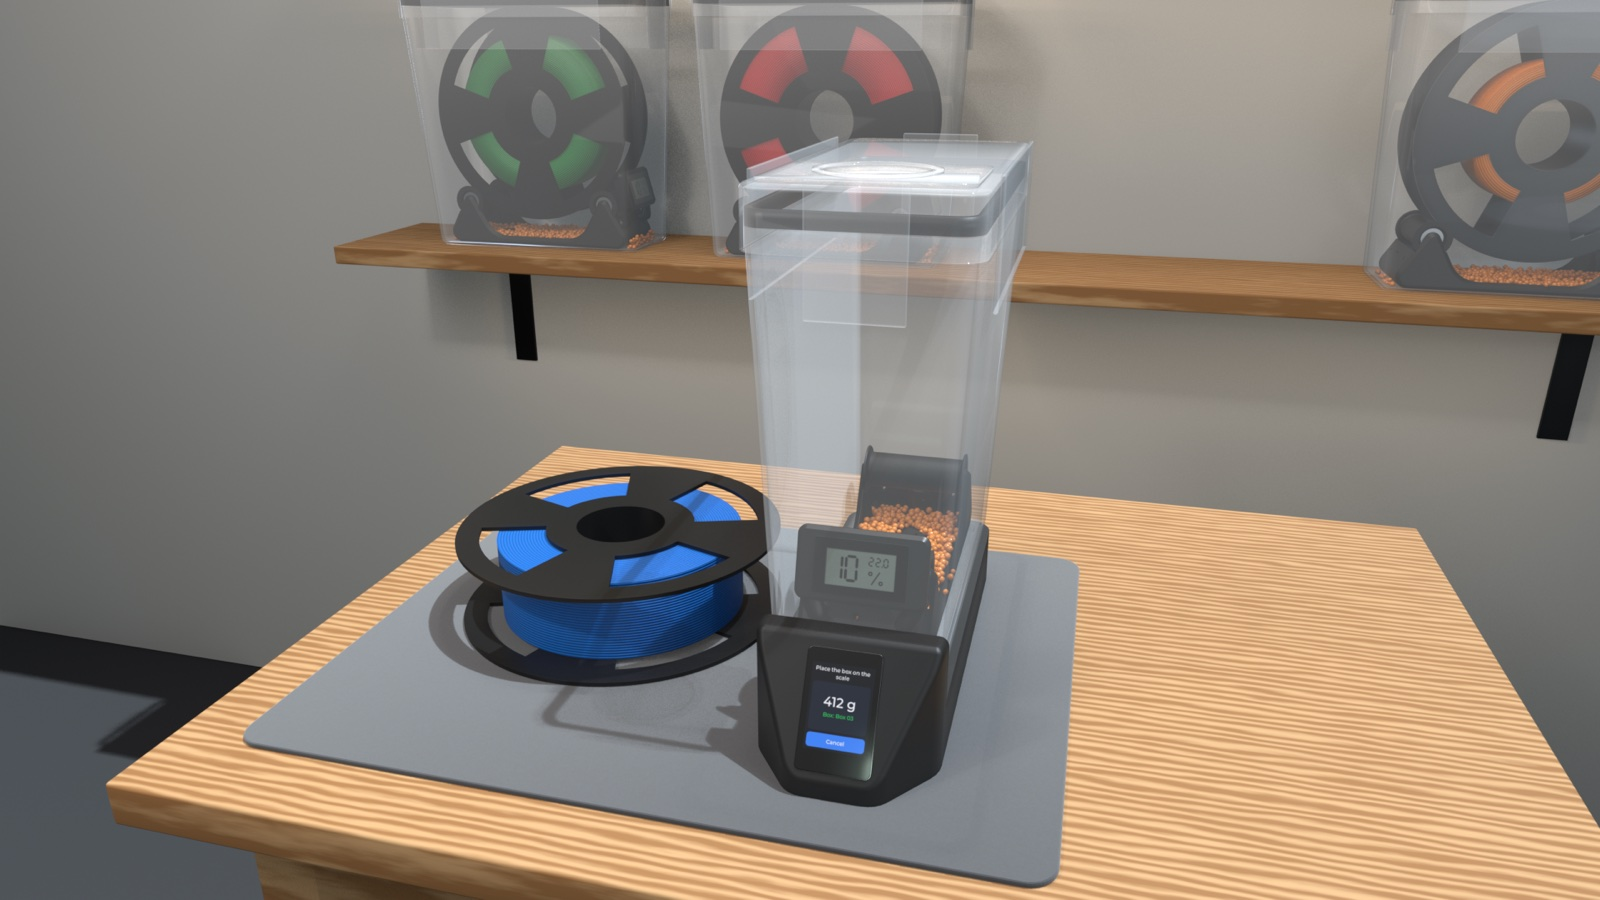
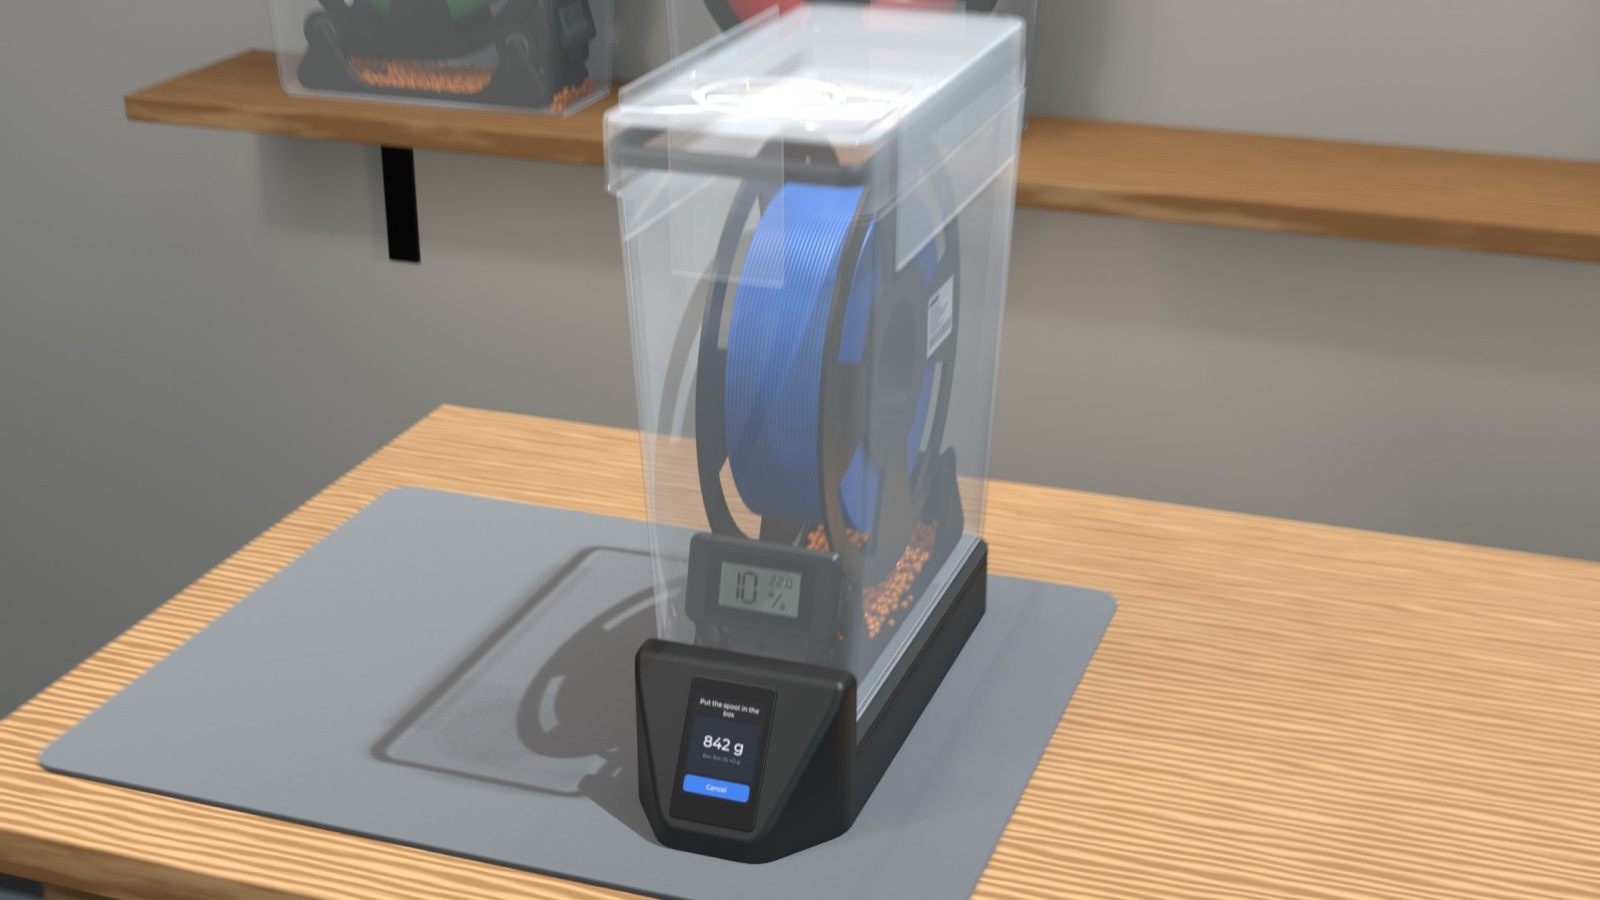
Webseite: neue EEVEE-Renders in Full HD als Platzhalter

diff --git a/docs/index.html b/docs/index.html
@@ -43,8 +43,8 @@
 
 <div class="wrap">
   <figure class="hero-img">
-    <img src="img/hero.jpg" alt="Rendering: the scale on a workbench with a storage box on the platform and a blue spool next to it. The display shows 412 g." width="1600" height="900">
-    <figcaption><span data-l="de">Rendering aus Blender. Die Box steht auf der Waage, das Display zeigt das Boxgewicht.</span><span data-l="en">Blender rendering. The box sits on the scale, the display shows the box weight.</span></figcaption>
+    <img src="img/hero.jpg" alt="Rendering: the storage box with the blue spool inside stands on the scale. The display shows 842 g." width="1600" height="900">
+    <figcaption><span data-l="de">Rendering aus Blender. Die Spule steht in der Box, das Display zeigt das Gewicht der Spule.</span><span data-l="en">Blender rendering. The spool sits in the box, the display shows the spool weight.</span></figcaption>
   </figure>
 </div>
 
@@ -135,7 +135,7 @@
   </div>
   <p style="margin-top:16px"><a href="bauen.html"><span data-l="de">Verdrahtung, Mechanik und Flashen im Browser</span><span data-l="en">Wiring, mechanics and flashing from the browser</span></a></p>
   <div class="two tall" style="margin-top:22px">
-    <img src="img/render-room.jpg" alt="Rendering: the scale in front of a shelf with filament boxes" loading="lazy">
+    <img src="img/render-room.jpg" alt="Rendering: the storage box on the scale in front of a shelf with filament boxes" loading="lazy">
     <img src="img/render-menu.jpg" alt="Rendering: close-up of the touch display" loading="lazy">
   </div>
 </section>

diff --git a/docs/bauen.html b/docs/bauen.html
@@ -58,8 +58,8 @@
 
 <h2 id="mechanik"><span data-l="de">Mechanik</span><span data-l="en">Mechanics</span></h2>
 <div class="two">
-  <img src="img/render-front.jpg" alt="" loading="lazy">
-  <img src="img/render-menu.jpg" alt="" loading="lazy">
+  <img src="img/render-front.jpg" alt="Rendering: the spool is scanned at the NFC zone" loading="lazy">
+  <img src="img/render-menu.jpg" alt="Rendering: close-up of the touch display" loading="lazy">
 </div>
 <ul>
   <li><span data-l="de"><b>Biegebalken:</b> Sockel an einem Ende, Wiegeplatte am anderen. Distanzstücke sorgen dafür, dass nur die Enden Kontakt haben. Der Pfeil auf der Zelle zeigt die Lastrichtung.</span><span data-l="en"><b>Bar load cell:</b> base at one end, weighing platform at the other. Spacers make sure only the ends touch. The arrow on the cell shows the load direction.</span></li>

diff --git a/docs/style.css b/docs/style.css
@@ -78,7 +78,7 @@ section{padding-block:44px}
 .two{display:grid;grid-template-columns:1fr 1fr;gap:14px}
 @media (max-width:700px){.two{grid-template-columns:1fr}}
 .two img{width:100%;height:auto;border-radius:var(--r);display:block}
-.two.tall img{aspect-ratio:1600/1466;object-fit:cover}
+.two.tall img{aspect-ratio:16/9;object-fit:cover}
 .table-scroll{overflow-x:auto}
 table{width:100%;border-collapse:collapse;background:var(--surface);border:1px solid var(--line)}
 td,th{text-align:left;padding:10px 14px;border-bottom:1px solid var(--line);font-size:15px;vertical-align:top}

diff --git a/README.md b/README.md
@@ -2,7 +2,7 @@
 
 [Website](https://drache055.github.io/filament-scale/) · [Build guide](https://drache055.github.io/filament-scale/bauen.html)
 
-![The scale on a workbench with a storage box on the platform](docs/img/hero.jpg)
+![The storage box with a spool inside on the scale](docs/img/hero.jpg)
 
 A filament scale built on the ESP32-S3. It reads the spool and its storage box via NFC, weighs the spool inside the box and writes the remaining weight and the box as location to [Spoolman](https://github.com/Donkie/Spoolman).
 
